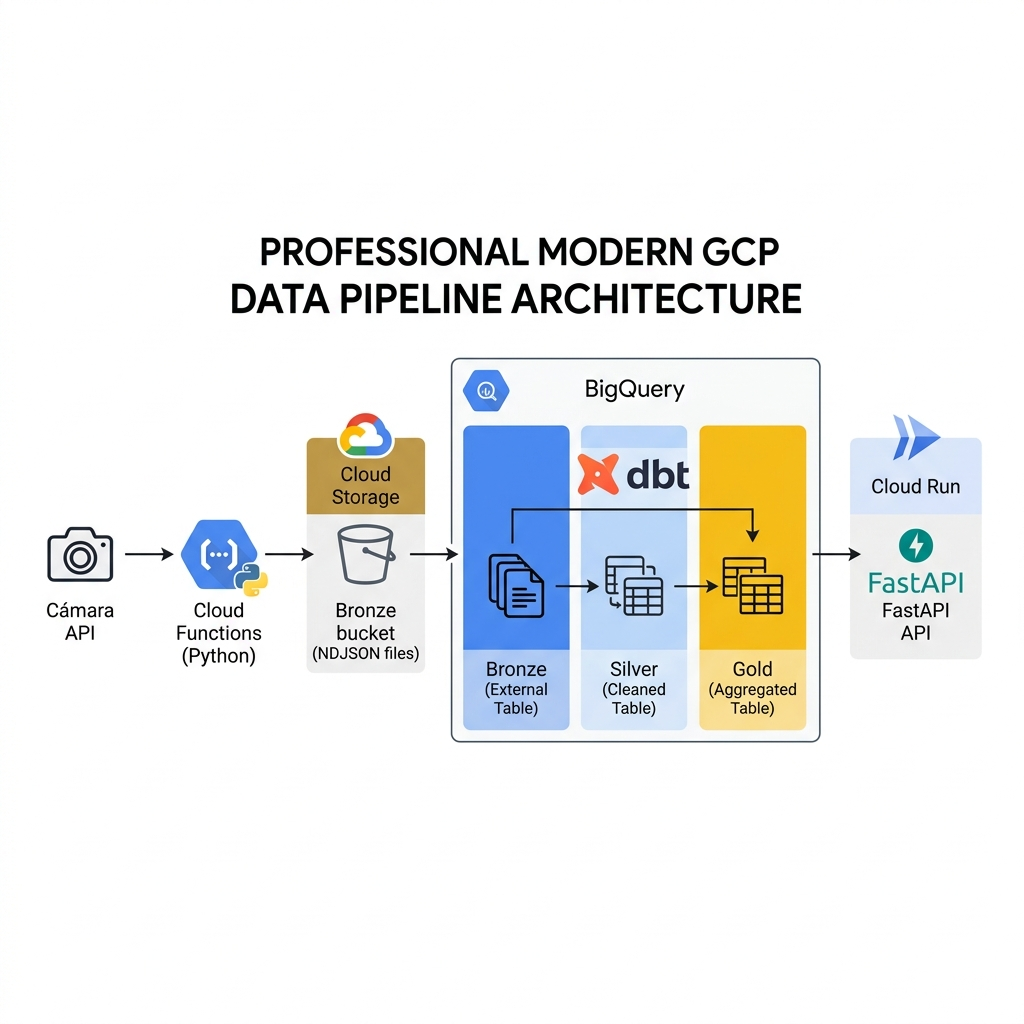
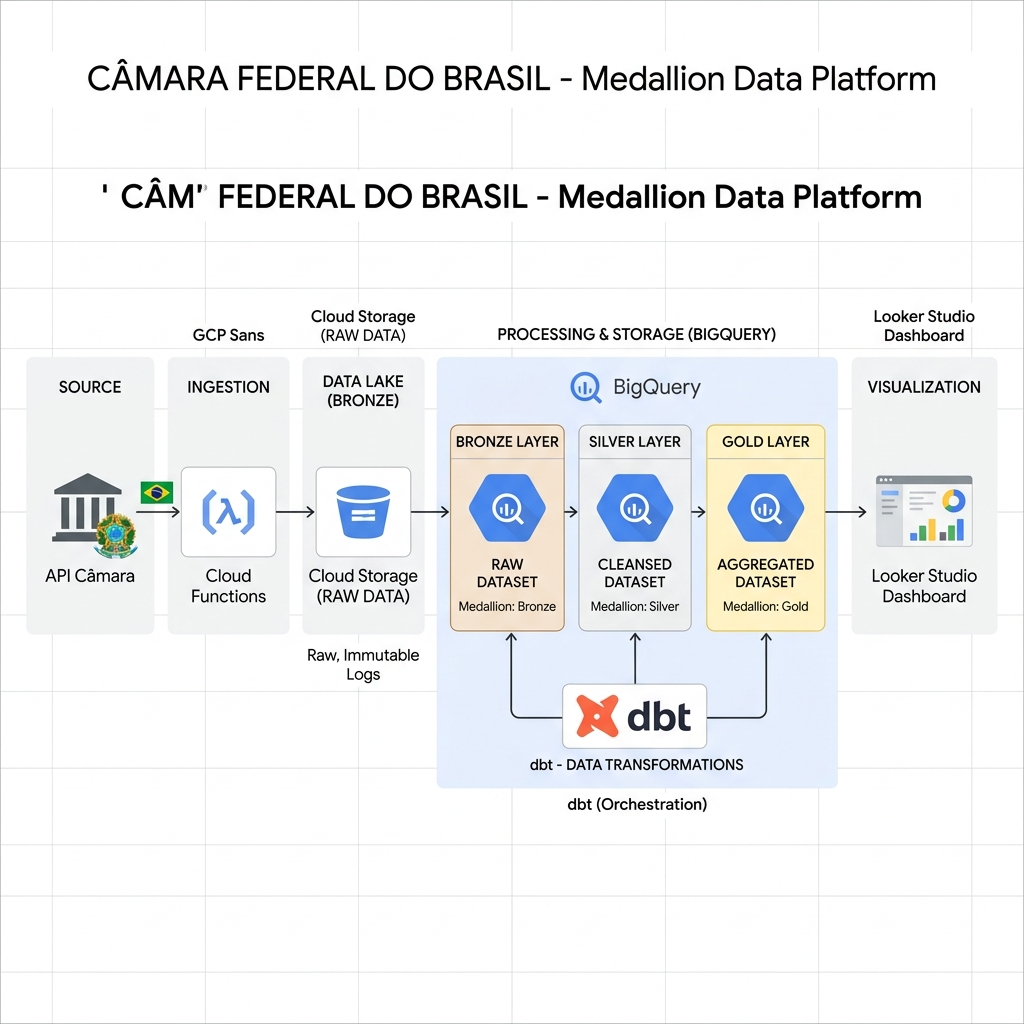
docs: update project identity to Câmara Federal do Brasil

diff --git a/PROJETO_RESUMO.md b/PROJETO_RESUMO.md
@@ -1,4 +1,4 @@
-# Plataforma de Dados Medallion: Câmara dos Deputados 🚀
+# Plataforma de Dados Medallion: Câmara Federal do Brasil 🇧🇷🏛
 
 Este documento é o guia técnico completo da solução de Data Warehouse construída para a análise de despesas da Câmara dos Deputados. Aqui detalhamos a arquitetura, os arquivos fonte e as decisões de engenharia.
 
